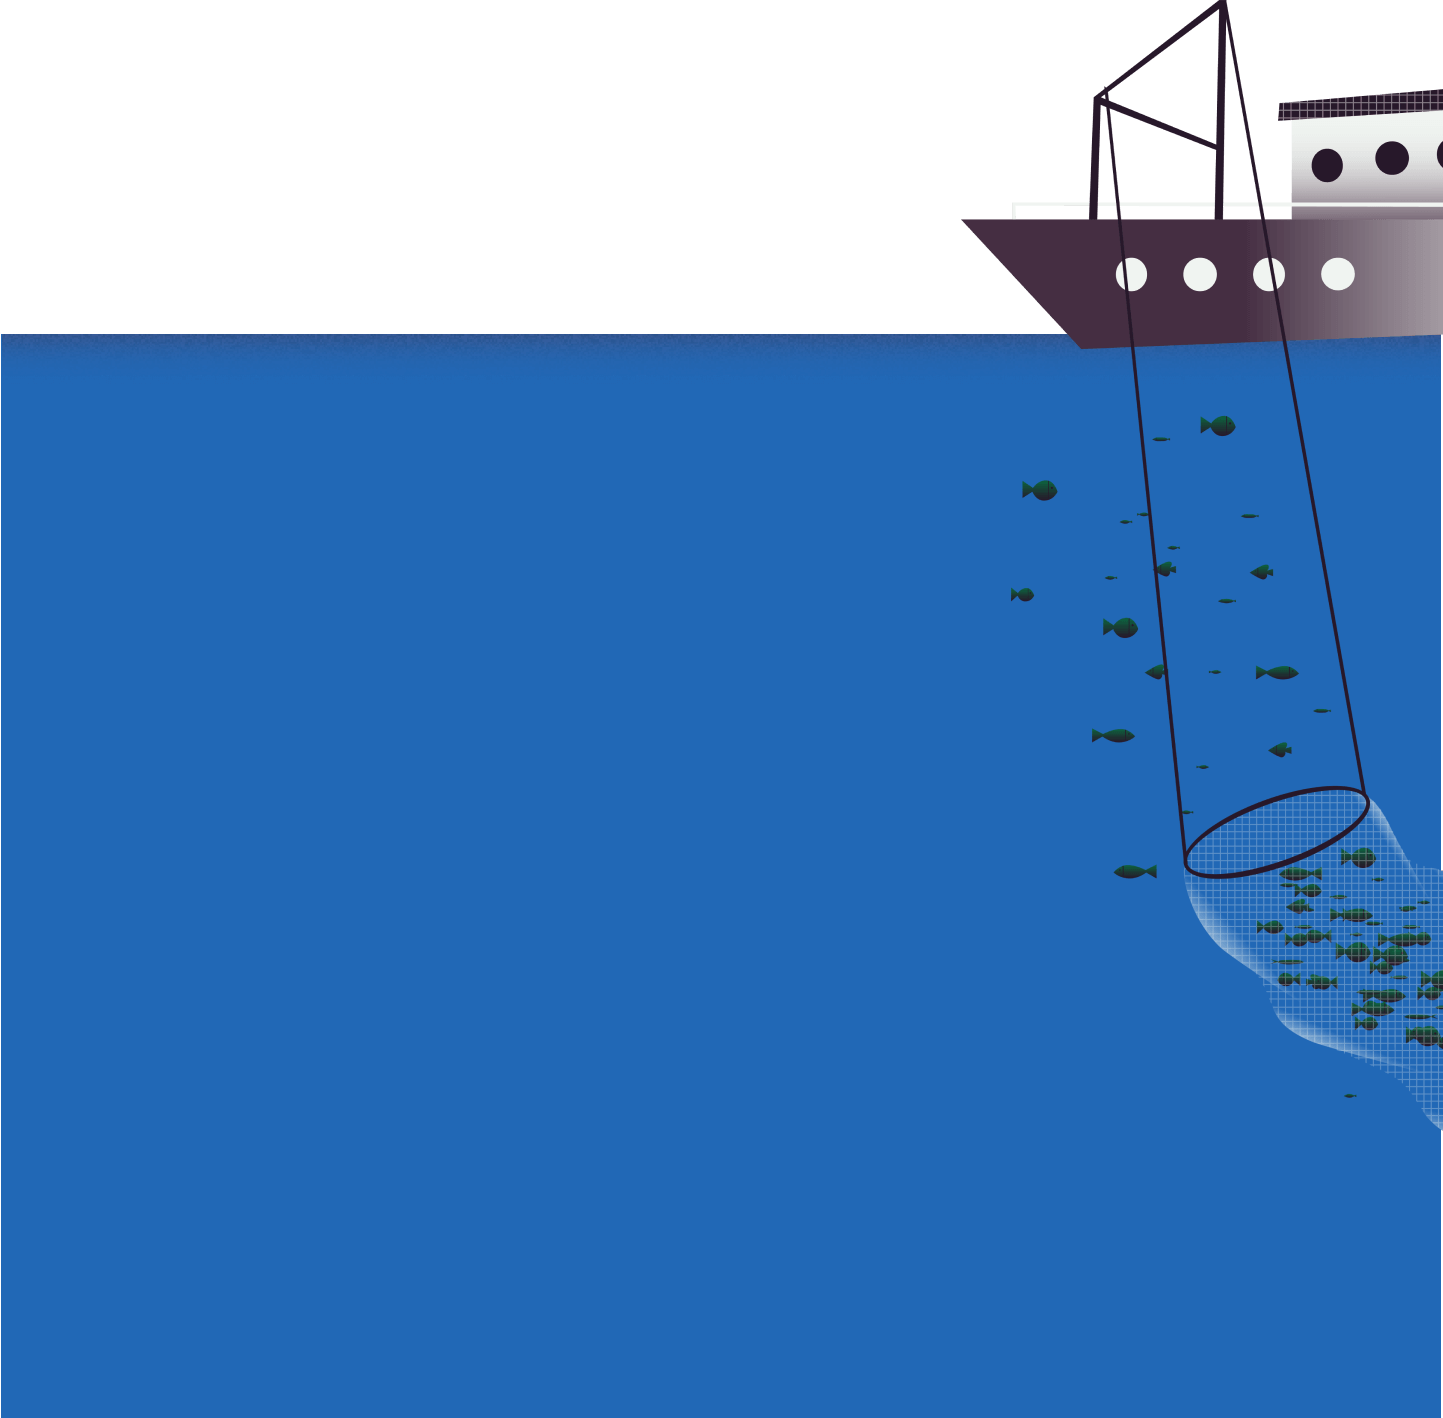
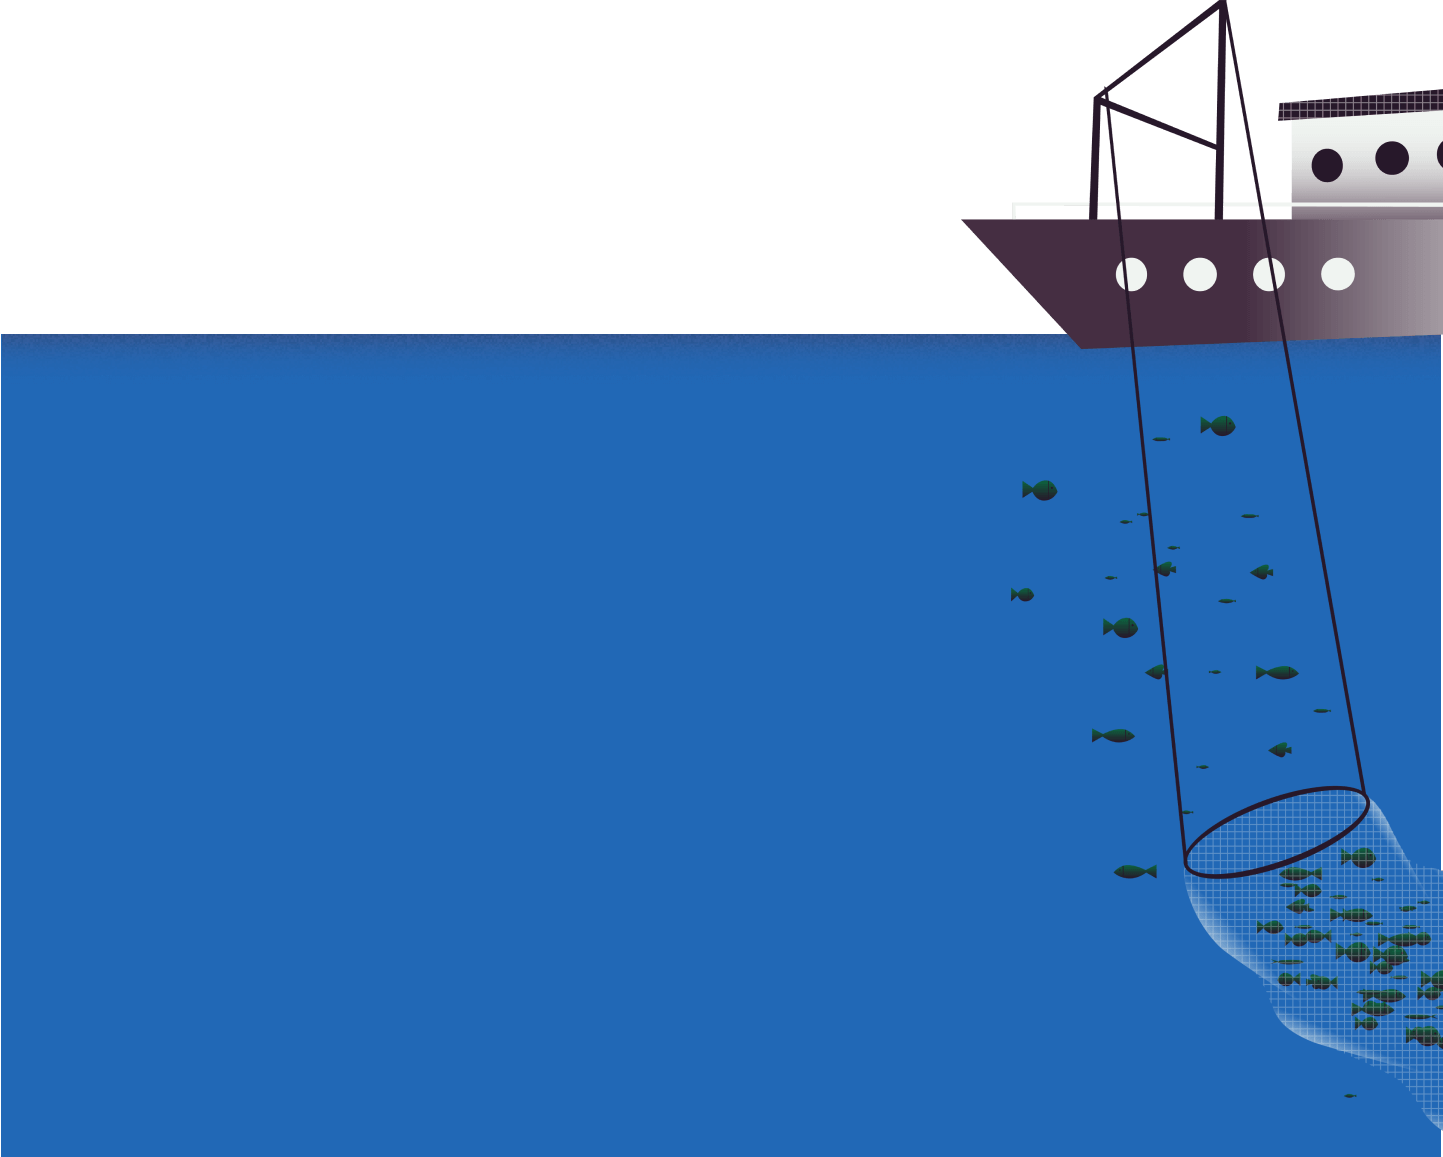
#76 fixes middle background

diff --git a/js/infopage.js b/js/infopage.js
@@ -8,40 +8,42 @@ gsap.registerPlugin(ScrollTrigger);
 window.infopage = (function ($) {
 
 	function init() {
-        if ($(window).width() > 850){
-            parallax();
-        }
         
         $('.infopage .close-icon').on('click', function() {
             $('.infopage').remove();
         }); 
 
+        if ($(window).width() > 850){
+            parallax();
+        }
+
         moveBottomWave();
     
         resizeBottomLineSvg();
+        setMiddleAfter();
+
         $( window ).resize(function() {
             resizeBottomLineSvg();
-        });
 
-        gsap.from(".bottom-info-line", {
-            duration:2,
-            scrollTrigger: {
-                trigger: ".wave",
-            }, 
-            motionPath: {
-                path: "#bottom-line-path",
-                align: "#bottom-line-path",
-                alignOrigin: [0.5, 0.5],
-                autoRotate: false,
-                start: 0.25,
+            if ($('.middle').height() < $(window).height() + 30 && $('.after-element').length) {
+                $('.middle .after-element').height(($(window).height() - $('.middle').height()) + ($(window).height() * 0.5));
             }
         });
 	}
 
+    function setMiddleAfter() {
+        setTimeout(function() {
+            if ($('.middle').height() < $(window).height() + 30 && $('.after-element').length) {
+                $('.middle .after-element').height(($(window).height() - $('.middle').height()) + ($(window).height() * 0.5));
+            }
+        }, 1000);
+    }
+
     function resizeBottomLineSvg() {
-        var $svg = $('.bottom-info-line');
+        var $svg = $('#bottom-info-line');
         $svg.attr({
-            width: $(window).width()
+            width: $(window).width(),
+            height: (769 / 1442) * $(window).width()
         });
     }
 

diff --git a/js/menu.js b/js/menu.js
@@ -43,7 +43,6 @@ window.menu = (function ($) {
     gsap.to('#wave-path', {
       duration: 3,
       attr: { d: `${$('#wave-path').data('to')}` },
-      // ease: Power4.easeOut,
     });
 
     gsap.to('.shell-content', { x: 0, opacity: 1, delay: 1.2 });
@@ -56,7 +55,6 @@ window.menu = (function ($) {
       duration: 2,
       attr: { d: `${$('#wave-path').data('from')}` },
       delay: 0.3,
-      // ease: Power4.easeOut,
     });
     gsap.to('#nav', {
       y: '-100vh',

diff --git a/scss/variables/_mixins.scss b/scss/variables/_mixins.scss
@@ -74,10 +74,9 @@
 
 @mixin after-infopage-background {
     overflow: hidden;
-    &:after {
-        content: '';
+    .after-element {
         background-color: $PRIMARY_COLOR;
-        height: 30vh;
+        height: 0;
         width: 100%;
         position: relative;
         display: block;

diff --git a/scss/sections/_infopage.scss b/scss/sections/_infopage.scss
@@ -66,7 +66,7 @@
     .bottom-info {
         z-index: 1;
         position: absolute;
-        bottom: 0;
+        bottom: 50px;
         left: 0;
         width: 100%;
 
